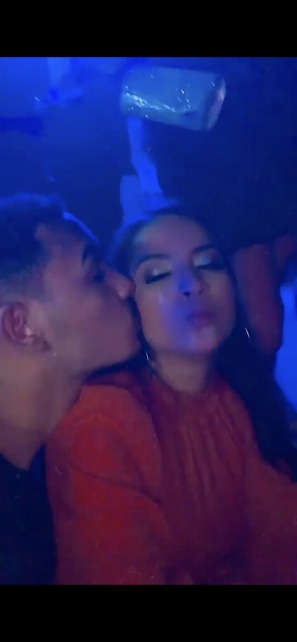
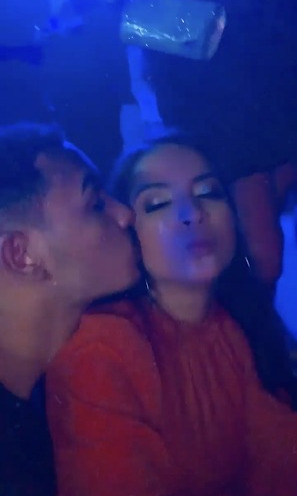
adicionando fotos e quase, finalizando foto mural e finalizando a página do mural

diff --git a/style/style-momentos.css b/style/style-momentos.css
@@ -5,45 +5,46 @@
 }
 
 body{
-    background-color: black;
+    background: linear-gradient(135deg, #CCFBFF, #EF96C5);
     position: relative;
-    height: 100vh;
 }
 
 /*SO PRA DIFERENCIAR*/
 
 
-header nav ul img{
+main nav ul img{
     width: 30px;
     /*background-color: rgba(255, 255, 255, 0.637);*/
-    background: linear-gradient(135deg, pink, lightblue);
+    background: rgba(255, 255, 255, 0.486);
     border-radius: 50%;
     padding: 5px;
     margin-left: 5px;
     margin-top: 5px;
 }
 
-header nav ul img:hover{
-    transform: translate(-2px, -2px);
-    background: linear-gradient(135deg, rgb(252, 224, 228), rgb(205, 229, 236));
-    box-shadow: 0px 0px 10px 3px rgba(255, 255, 255, 0.774);
+main nav ul img:hover{
+    background-color: #ffffffc7;
+    transform: translate(-3px, -3px);
+    box-shadow: 1px 1px 7px 1px rgba(0, 0, 0, 0.5);
 }
 
 
 main{
     /*background-color: rgba(255, 255, 255, 0.171);*/
-    background-color: rgb(211, 247, 247);
-    width: 90vw;
+
+    width: fit-content;
     margin: auto;
-    border-radius: 15px;
+    border-radius: 7px;
+    display: flex;
+    flex-direction: column;
+    background-color: #ffffff54;
 }
 
 #mural img{
     width: 100%;
     display: block;
     margin: auto;
-    padding-top: 15px;
-    padding-bottom: 15px;
+    padding: 20px;
 }
 
 

diff --git a/momentos.html b/momentos.html
@@ -8,7 +8,8 @@
     <title>Momentos</title>
 </head>
 <body>
-    <header>
+
+    <main>
         <nav>
             <ul>
                 <a href="index.html"> <img src="midia/icones/home-black.png" alt="home"></a> 
@@ -16,11 +17,8 @@
                 <a href="#"><img src="midia/icones/plane.png" alt="plane"></a> 
             </ul>
         </nav>
-    </header>
-
-    <main>
         <div id="mural">
-            <img src="#" alt="mural">
+            <img src="midia/momentos-inicio-a-agora/mural.jpg" alt="mural">
         </div>
     </main>
 </body>
